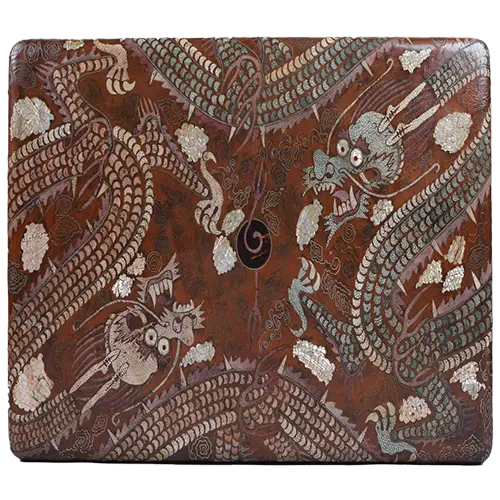
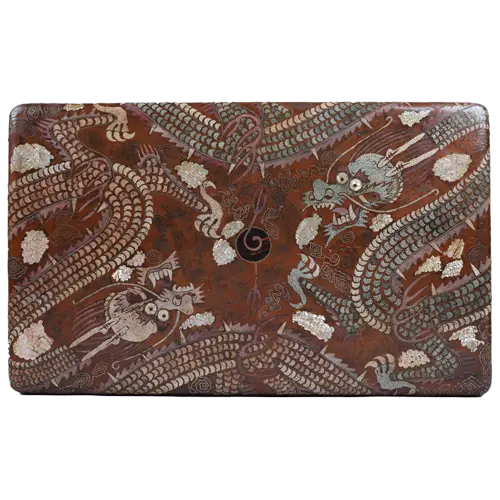
Add files via upload

diff --git a/script.js b/script.js
@@ -223,13 +223,15 @@ const floor2Dialogs = [
     { speaker: "해버미", text: "국립해양박물관 2층에는 기획전시실과 어린이박물관이 있어!", img: img2f_mapX, imgWidth: "85%", imgBottom: "45%" },
     { speaker: "해버미", text: "어린이박물관 앞에 우리를 도와줄 단원들이 기다리고 있다고 했는데... 먼저 찾아볼까?", img: img2f_mapO, imgWidth: "85%", imgBottom: "45%" },
     { speaker: "해버미", text: "어? 동료들이 있는 거 같아!", img: img2f_mascotsill, imgWidth: "85%", imgBottom: "45%" },
-    { speaker: "해버미", text: "단원 중 한 명이 배를 타고 있어! 이 배는 무슨 색깔일까?", img: img2f_mascotsill, quiz: "mascot", imgWidth: "85%", imgBottom: "45%" },
+    { speaker: "해버미", text: "단원들이 맞는지 확인해보자!", img: imgFantastic, imgWidth: "60%", imgBottom: "45%" },
+    { speaker: "해버미", text: "단원들은 총 몇개의 이를 가지고 있을까?", img: img2f_mascotsill, quiz: "mascot", imgWidth: "85%", imgBottom: "45%" },
     { speaker: "둥둥,뿌뿌,랑랑", text: "안녕 (이름) 탐험가님! 우린 어린이박물관의 마스코트 둥둥, 뿌뿌, 랑랑이야! 만나서 반가워!", img: imgM2f_mascot, imgWidth: "85%", imgBottom: "45%" },
     { speaker: "둥둥,뿌뿌,랑랑", text: "도감을 만들고 있다고? 정말 멋진걸! 하지만 탐험가가 될 자격이 있는지 먼저 확인해야겠지?", img: imgM2f_mascot, imgWidth: "85%", imgBottom: "45%" },
     { speaker: "둥둥,뿌뿌,랑랑", text: "2층 어딘가에서는 어떤 '섬'의 날씨를 실시간 중계하고 있어", img: imgM2f_mascot, imgWidth: "85%", imgBottom: "45%" },
-    { speaker: "둥둥,뿌뿌,랑랑", text: "이 섬을 먼저 찾아와 봐! 찾는다면 도감의 비밀을 알려줄게 !", img: imgM2f_mascot, imgWidth: "85%", imgBottom: "45%" },
-    { speaker: "해버미", text: "그정도야 바다에서 오징어찾기지! (이름) 탐험가! 2층을 찾아보자!", img: imgProud, quiz: "dokdo", imgWidth: "60%", imgBottom: "45%" },
-    { speaker: "둥둥,뿌뿌,랑랑", text: "좋아 (이름) 탐험가! 우리는 지금 도감에 넣을 잠수정을 찾고 있어", img: imgM2f_mascot, imgWidth: "85%", imgBottom: "45%" },
+    { speaker: "둥둥,뿌뿌,랑랑", text: "이 섬을 먼저 찾아와 봐!", img: imgM2f_mascot, imgWidth: "85%", imgBottom: "45%" },
+    { speaker: "해버미", text: "그정도야 바다에서 오징어찾기지! (이름) 탐험가! TV 속 섬을 찾아보자!", img: imgProud, quiz: "dokdo", imgWidth: "60%", imgBottom: "45%" },
+    { speaker: "둥둥,뿌뿌,랑랑", text: "오 실력이 제법인걸? 맞아 국립해양박물관에서는 독도의 실시간 모습을 볼 수 있어!", img: imgM2f_mascot, imgWidth: "85%", imgBottom: "45%" },
+    { speaker: "둥둥,뿌뿌,랑랑", text: "좋아 (이름) 탐험가! 사실 우리는 도감에 넣을 잠수정을 찾고 있었어 같이 찾아줄래?", img: imgM2f_mascot, imgWidth: "85%", imgBottom: "45%" },
     { speaker: "둥둥,뿌뿌,랑랑", text: "아주 노랗고 예쁜 잠수정이야. 국가중요과학유산이기도 해", img: imgM2f_mascot, imgWidth: "85%", imgBottom: "45%" },
     { speaker: "둥둥,뿌뿌,랑랑", text: "야외에 있는 노란 잠수정을 찾아봐! 이름을 알 수 있을 거야!", img: img2f_250sill, imgWidth: "85%", imgBottom: "45%" },
     { speaker: "둥둥,뿌뿌,랑랑", text: "우리가 찾는 이 잠수정의 이름은 무엇일까?", img: img2f_250sill, quiz: "sub", imgWidth: "85%", imgBottom: "45%" },
@@ -372,7 +374,7 @@ const floor5Dialogs = [
     { speaker: "해버미", text: "그중에서도 내 도감에 있는 아스틀라베가 최고야! (이름) 탐험가만 특별히 보여줄게", img: imgFantastic, imgWidth: "60%", imgBottom: "45%" },
     { speaker: "해버미", text: "...?", img: imgNormal, imgWidth: "60%", imgBottom: "45%" },
     { speaker: "해버미", text: "없어! 어디갔어? 없어졌어! 내 아스트롤라베!!!", img: imgCry, imgWidth: "60%", imgBottom: "45%" },
-    { speaker: "???", text: "누가 이렇게 박물관에 떠들어?!", img: imgTamiSil, imgWidth: "70%", imgBottom: "45%" },
+    { speaker: "???", text: "누가 이렇게 박물관에서 떠들어?!", img: imgTamiSil, imgWidth: "70%", imgBottom: "45%" },
     { speaker: "해버미", text: "어?! 이 목소리는? 타미야! 여기 있었구나!! 만나서 반가워~", img: imgFantastic, imgWidth: "60%", imgBottom: "45%" },
     { speaker: "???", text: "해버미?! 안그래도 찾고있었는데 여기 있었구나?", img: imgTamiSil, imgWidth: "70%", imgBottom: "45%" },
     { speaker: "해버미", text: "(이름) 탐험가! 여기는 내 소중한 친구 타미라고 해. 탐험에 대해서는 모르는게 없는 아주 똑똑한 친구지.", img: imgSmile, imgWidth: "60%", imgBottom: "45%" },
@@ -469,15 +471,16 @@ const floor5Dialogs = [
 ];
 
 const epilogueDialogs = [
-    { speaker: "해버미", text: "우와! 드디어 박물관의 모든 탐험을 끝냈어!!", img: imgSmile },
+    { speaker: "해버미", text: "우와! 드디어 모든 박물관 전시 탐험을 끝냈어!!", img: imgSmile },
     { speaker: "해버미", text: "(이름) 탐험가, 우리가 완성한 도감을 한 번 확인해 볼까?", img: imgTamiJoy },
     { speaker: "타미", text: "9개의 도감을 다 채우다니! (이름) 탐험가는 정말 멋있어!", img: imgTamiJoy, openBook: true },
     { speaker: "해버미", text: "정말 대단해! (이름) 친구는 이제 해박탐험단이 인정하는 최고의 탐험가야.", img: imgSmile },
-    { speaker: "타미", text: "(이름) 탐험가! 탐험가만 알고 있어! 새로운 기획전시가 열린다면 새로운 탐험이 시작될지도 몰라!", img: imgTamiShh },
-    { speaker: "타미", text: "그때는 어쩌면 또 다른 선물이 있을지도?!", img: imgTamiJoy },
-    { speaker: "해버미", text: "그리고 어린이날을 맞아서 탐험가들에게 1층에서 선착순으로 <초등용> 해양교재를 나눠주고 있어", img: imgSmile },
+    { speaker: "타미", text: "(이름) 탐험가! 탐험가만 알고 있어! 2층 기획전시실에서는 아주 특별한 전시가 열리고 있어!", img: imgTamiShh },
+    { speaker: "타미", text: "부산항 개항 150주년, <개항>! 관심있다면 가서 꼭 관람해봐!", img: imgTamiJoy },
+    { speaker: "해버미", text: "박물관 도감을 모두 찾은 탐험가에게는 작은 선물을 나눠주고 있어!", img: imgSmile },
     { speaker: "해버미", text: "선물을 받으려면 설문조사를 해야 해! 위대한 탐험가 증서를 받고, 설문조사를 완료해줘", img: imgProud },
-    { speaker: "해버미", text: "그 소식 들었어? 해박탐험단장님이 (이름) 탐험가의 이야기를 듣고는 정식 탐험단원으로 임명하고 싶으시대!", img: imgSmile },
+    { speaker: "타미", text: "2층 안내데스크에서 설문조사를 완료한 화면을 보여드리면 돼!", img: imgTamiJoy },
+    { speaker: "해버미", text: "맞아! 그 소식 들었어? 해박탐험단장님이 (이름) 탐험가의 이야기를 듣고는 정식 탐험단원으로 임명하고 싶으시대!", img: imgSmile },
     { speaker: "해버미", text: "자, 이건 위대한탐험가 증서야! 사진으로 꼭 남겨둬! 짠~!", img: imgProud }
 ];
 
@@ -616,8 +619,8 @@ function updateDialog() {
             imgArea.style.display = "block";
             previewImg.src = typeof img2f_mascotsill !== 'undefined' ? img2f_mascotsill : "";
         }
-        document.getElementById("quiz-title").innerText = "단원 중 한 명이 타고 있는 배의 색깔은?";
-        quizButtons.innerHTML = `<button class="quiz-btn" onclick="checkAnswer('mascot', 1)">1. 분홍색</button><button class="quiz-btn" onclick="checkAnswer('mascot', 2)">2. 파랑색</button><button class="quiz-btn" onclick="checkAnswer('mascot', 3)">3. 초록색</button>`;
+        document.getElementById("quiz-title").innerText = "단원들이 가진 이는 모두 몇개??";
+        quizButtons.innerHTML = `<button class="quiz-btn" onclick="checkAnswer('mascot', 1)">1. 7개</button><button class="quiz-btn" onclick="checkAnswer('mascot', 2)">2. 6개</button><button class="quiz-btn" onclick="checkAnswer('mascot', 3)">3. 9개</button>`;
     }
 
     else if (info.quiz === "dokdo") {
@@ -625,7 +628,7 @@ function updateDialog() {
             imgArea.style.display = "block";
             previewImg.src = typeof img2f_Dokdo !== 'undefined' ? img2f_Dokdo : "";
         }
-        document.getElementById("quiz-title").innerText = "2층에서 실시간 중계 중인 '섬'의 이름은 무엇일까요?";
+        document.getElementById("quiz-title").innerText = "어떤 '섬'을 실시간 중계하고 있어요! 어디일까요?";
 
         quizButtons.innerHTML = `
             <input type="text" id="dokdo-input" class="quiz-input" placeholder="정답을 입력하세요">